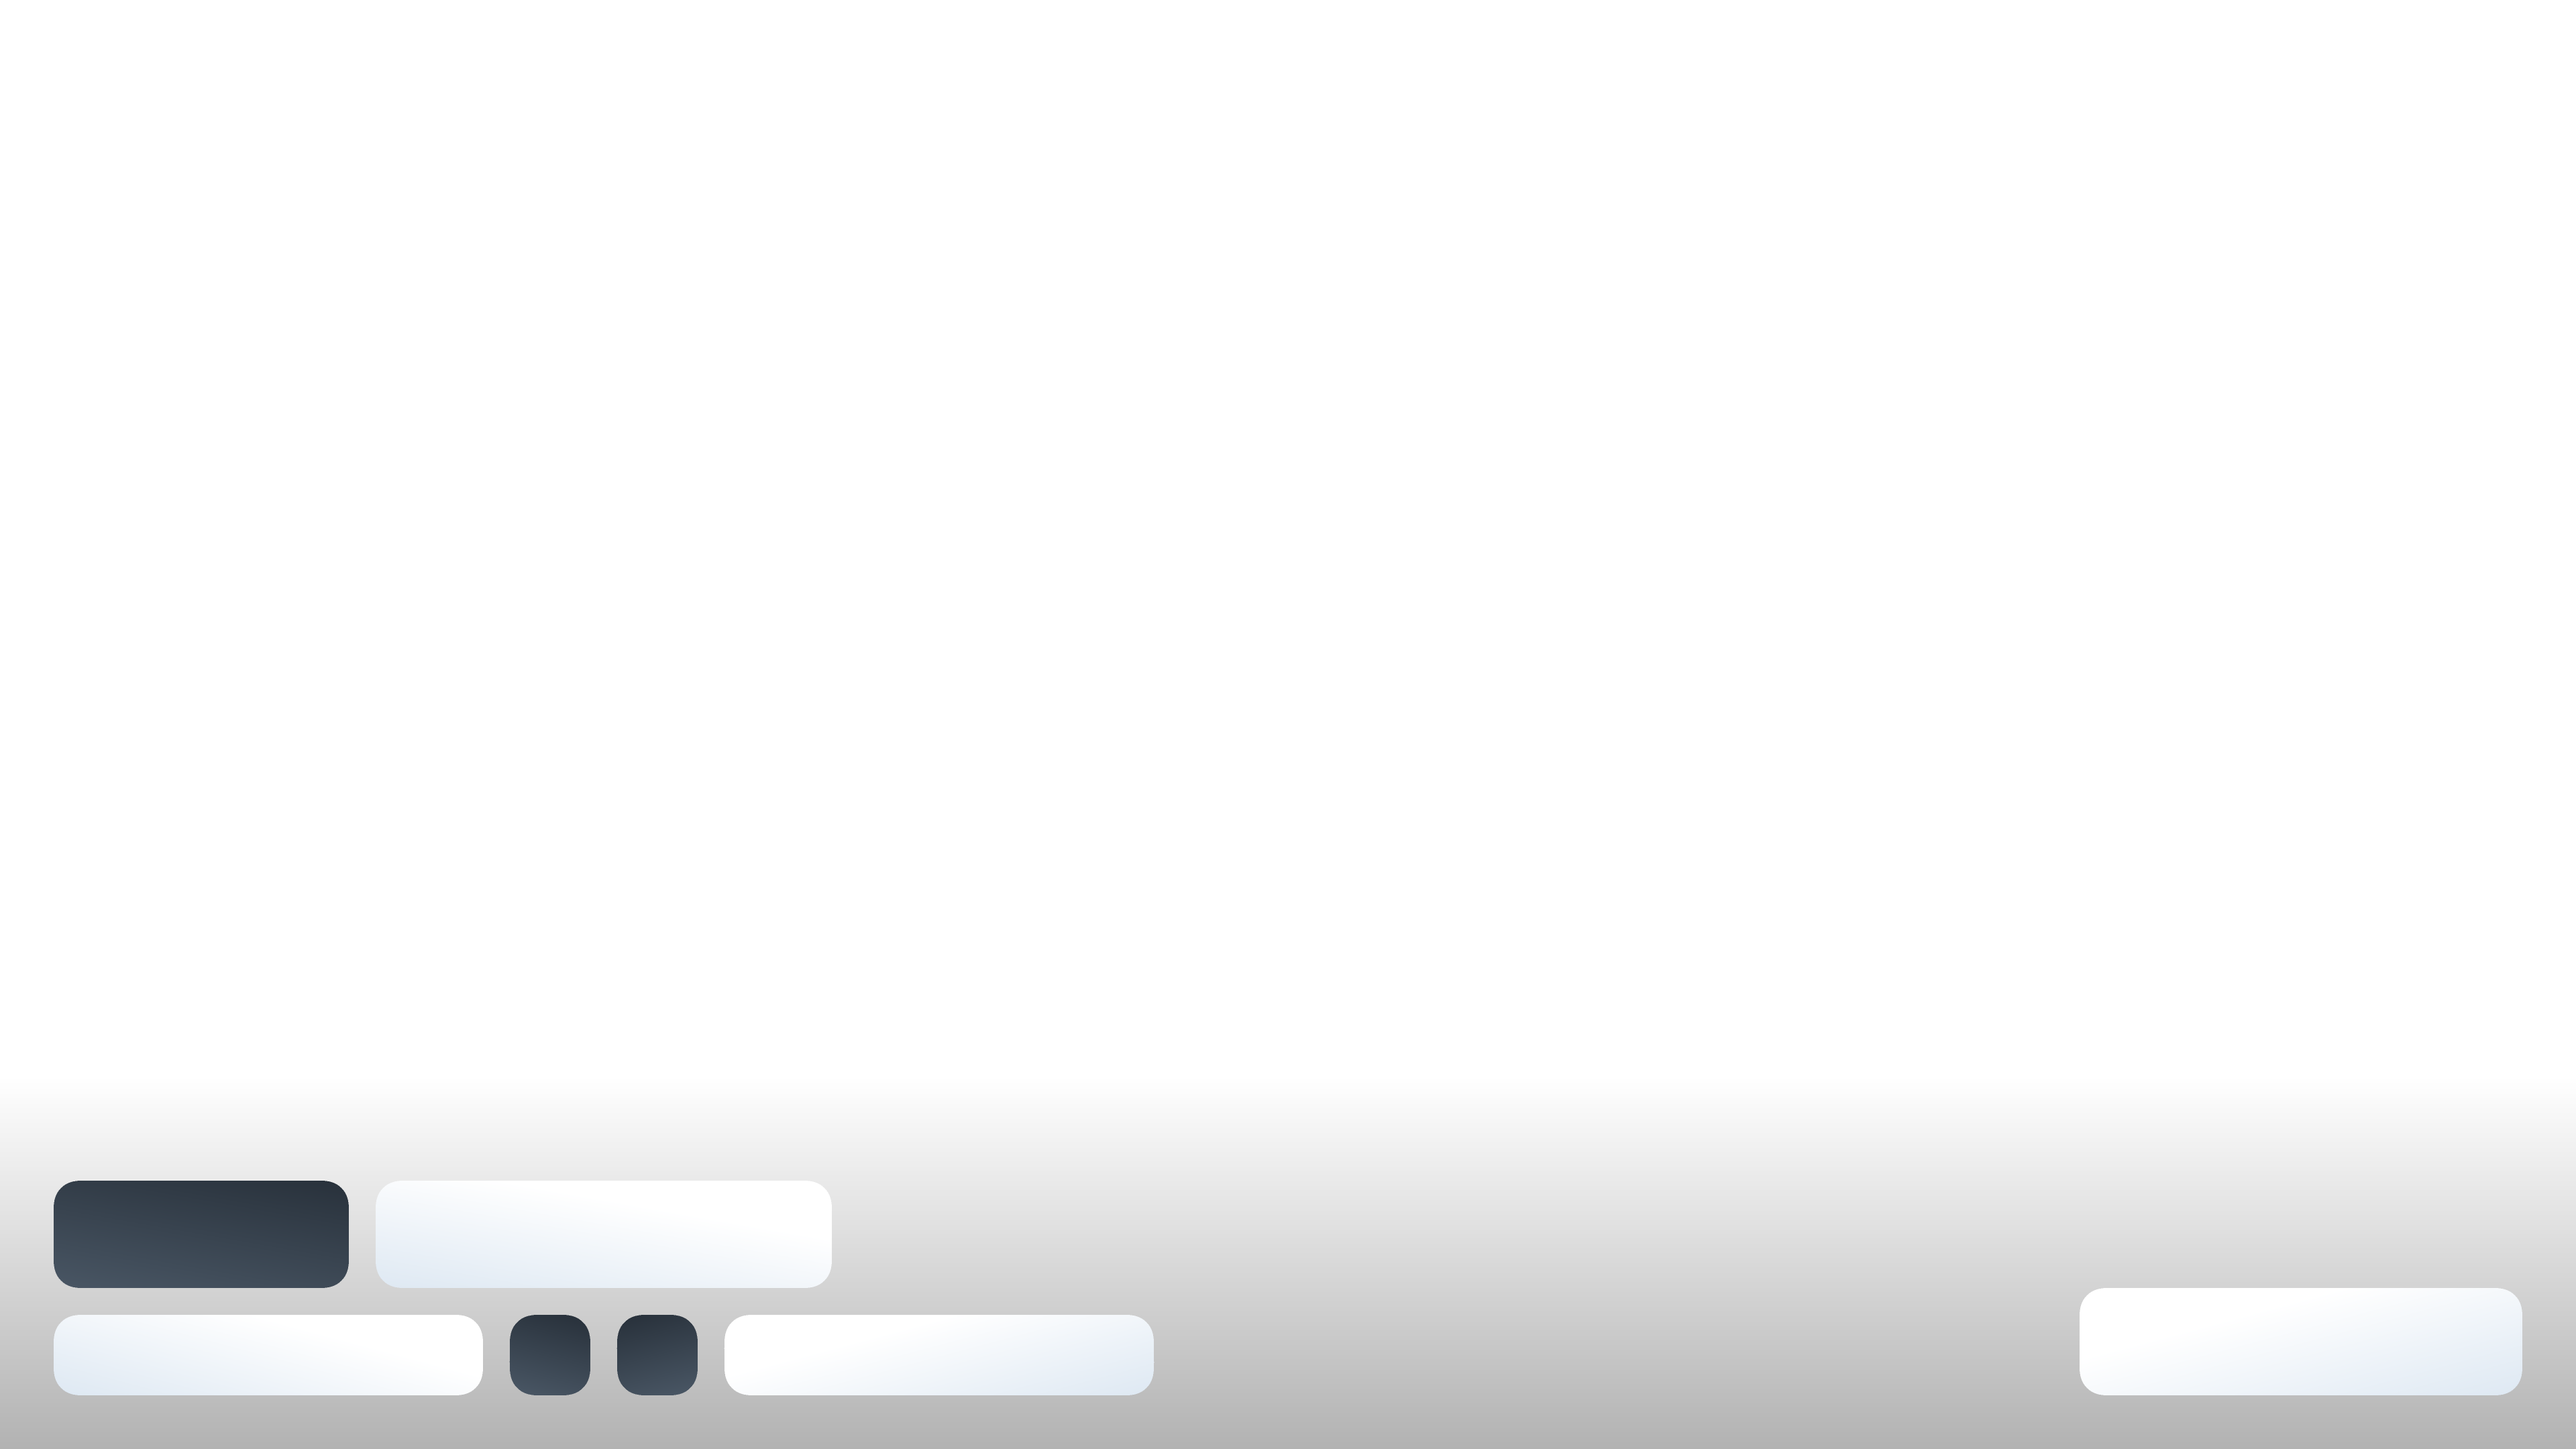
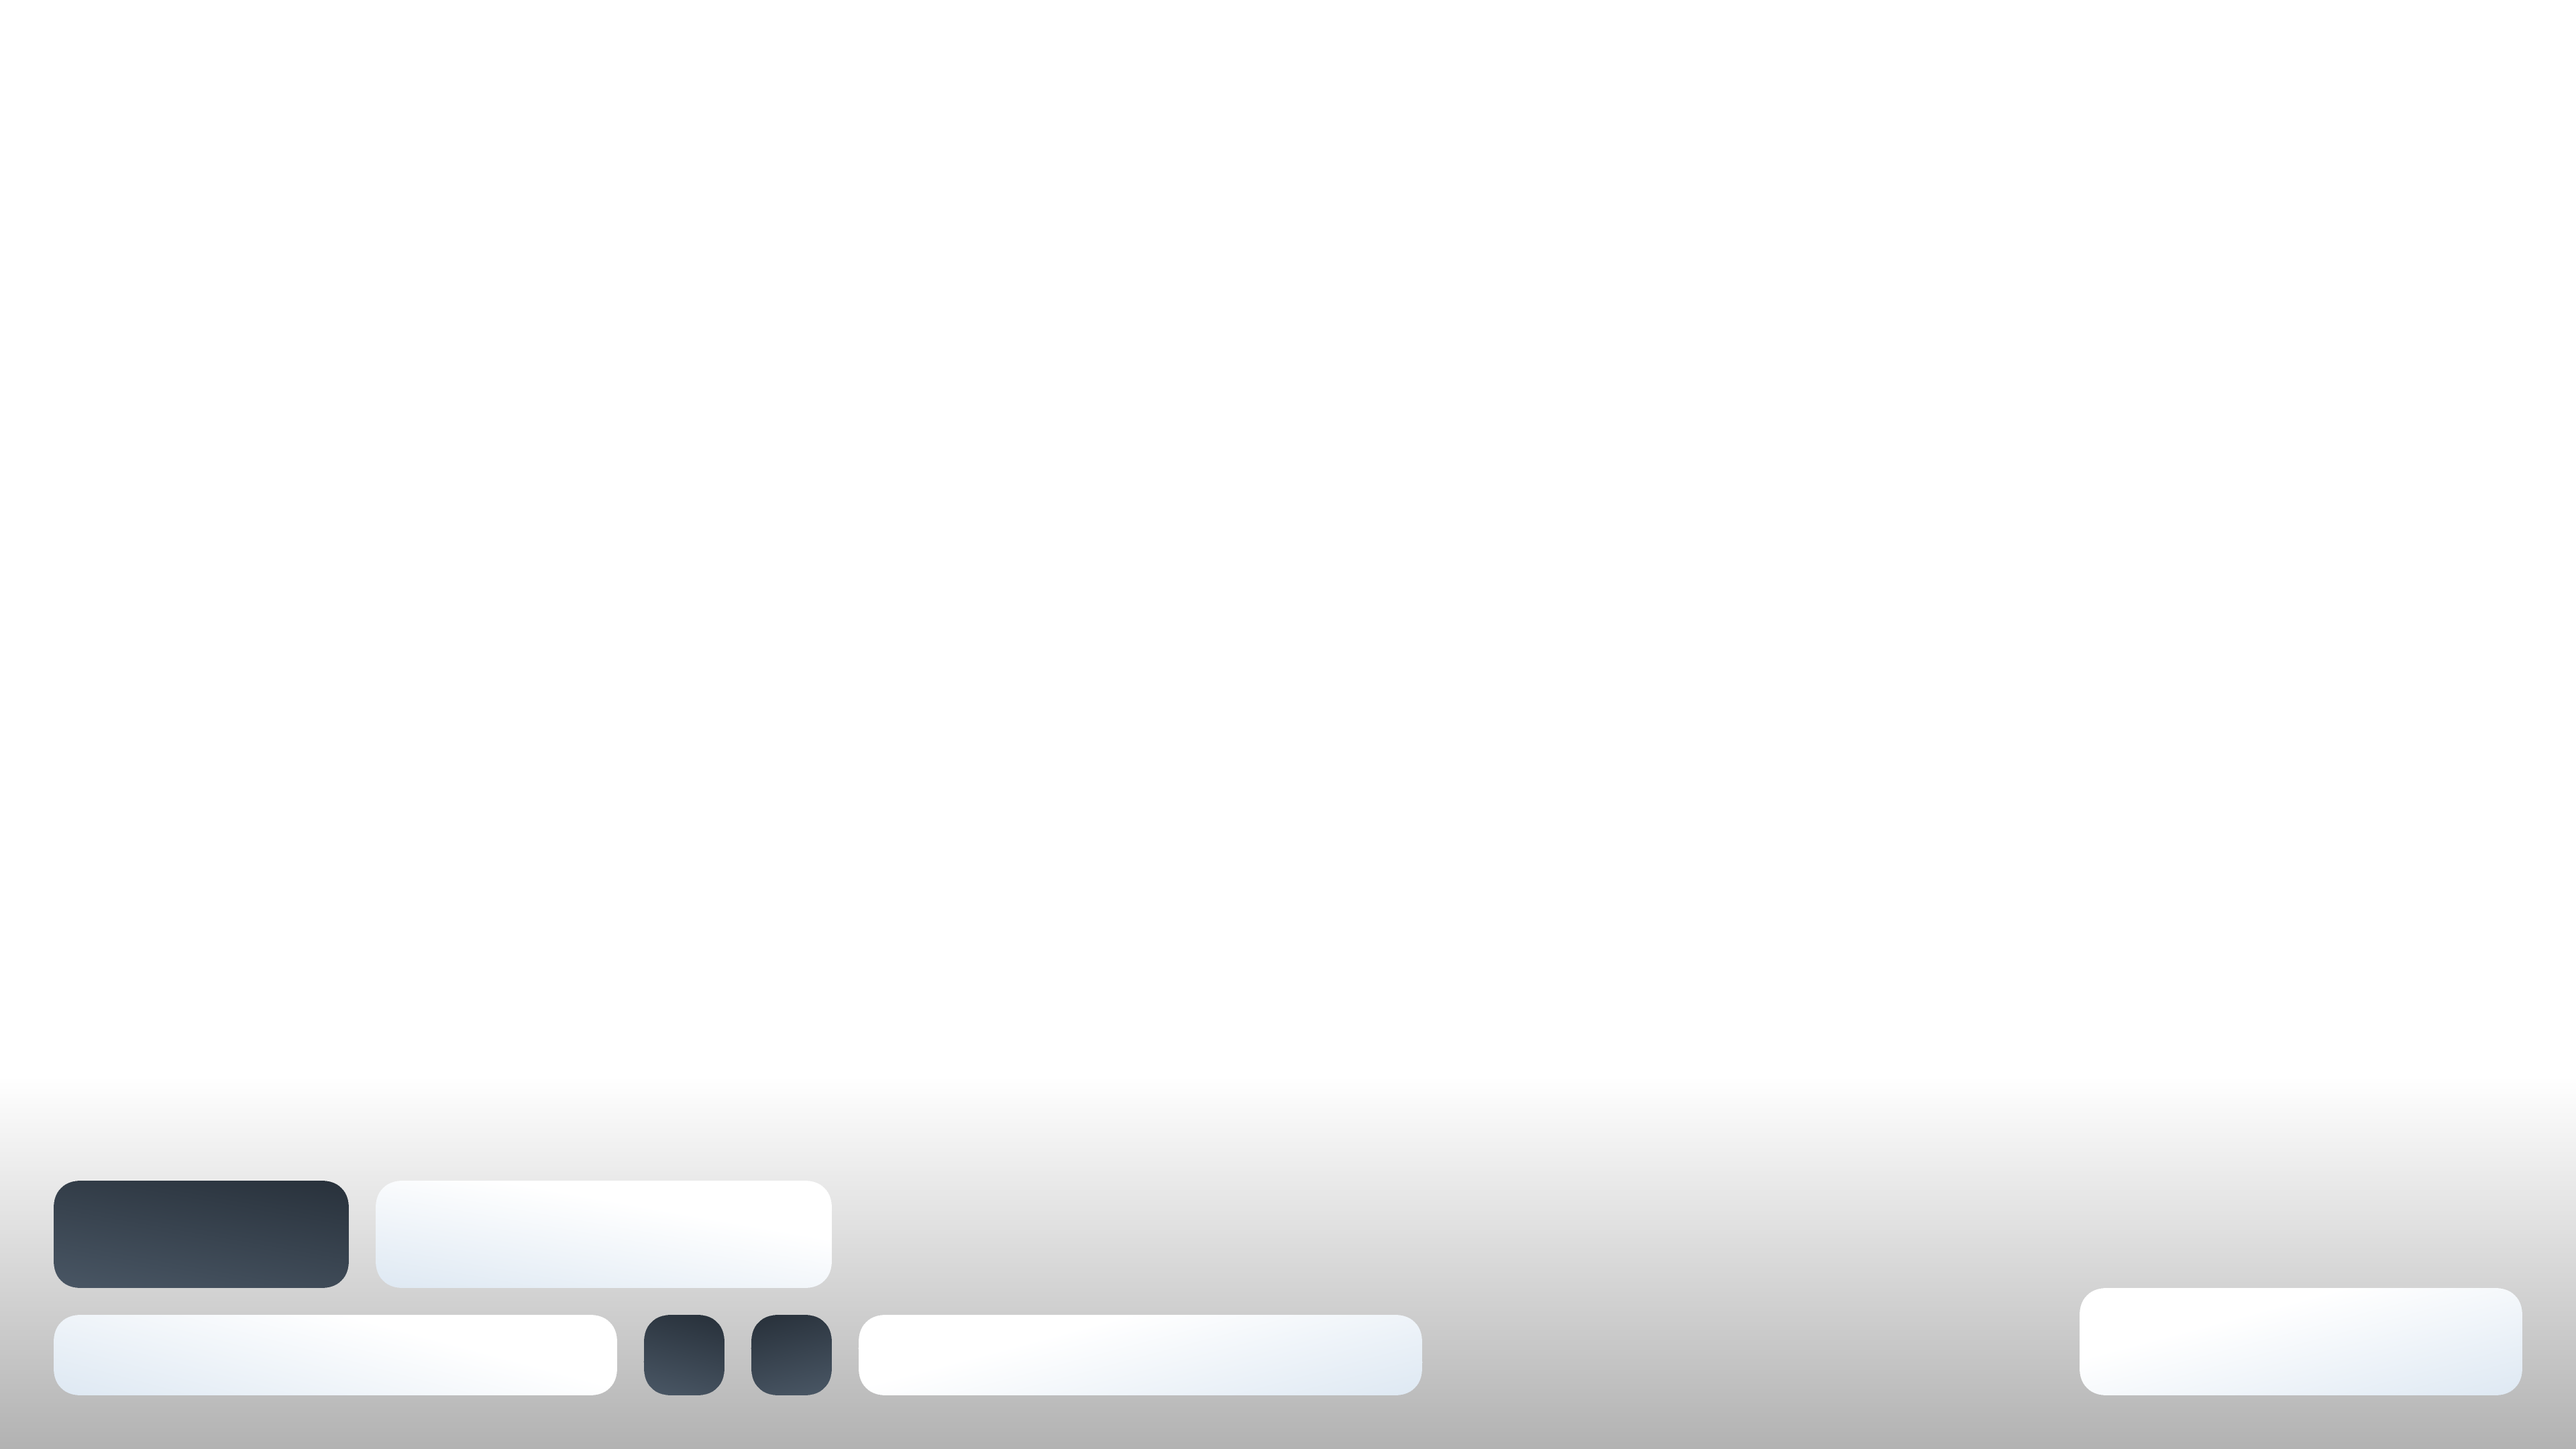
fix #80, fix #77

Changed region(s): [[0.1875, 0.8995, 0.3438, 0.9616], [0.4375, 0.8995, 0.5625, 0.9616]]

diff --git a/components/obs/next/MatchIntervalInfo.tsx b/components/obs/next/MatchIntervalInfo.tsx
@@ -61,8 +61,15 @@ export const MatchInterval: FC<{
           <p className={styles.bo}>{matchIntervalInfo.matchType}</p>
         </Transition>
       </div>
-      <Transition keyName={matchIntervalInfo.p1.playerName}>
-        <p className={styles.playerLeft}>{matchIntervalInfo.p1.playerName}</p>
+      <Transition
+        keyName={`${matchIntervalInfo.p1.team}-${matchIntervalInfo.p1.playerName}`}
+      >
+        <div className={styles.playerLeft}>
+          <span className={styles.playerTeam}>{matchIntervalInfo.p1.team}</span>
+          <span className={styles.playerName}>
+            {matchIntervalInfo.p1.playerName}
+          </span>
+        </div>
       </Transition>
       <Transition
         keyName={`${matchIntervalInfo.p1.playerName}-${matchIntervalInfo.p1.score}`}
@@ -74,8 +81,15 @@ export const MatchInterval: FC<{
       >
         <p className={styles.scoreRight}>{matchIntervalInfo.p2.score}</p>
       </Transition>
-      <Transition keyName={matchIntervalInfo.p2.playerName}>
-        <p className={styles.playerRight}>{matchIntervalInfo.p2.playerName}</p>
+      <Transition
+        keyName={`${matchIntervalInfo.p2.team}-${matchIntervalInfo.p2.playerName}`}
+      >
+        <div className={styles.playerRight}>
+          <span className={styles.playerTeam}>{matchIntervalInfo.p2.team}</span>
+          <span className={styles.playerName}>
+            {matchIntervalInfo.p2.playerName}
+          </span>
+        </div>
       </Transition>
       <p className={styles.localsetting}>
         Local Time

diff --git a/components/obs/next/normal.scss b/components/obs/next/normal.scss
@@ -26,6 +26,16 @@ $next_black: "Satoshi", "Noto Sans JP", sans-serif;
   }
 
   // チーム名及びプレイヤー名の設定
+  @mixin next_teamText {
+    color: var(--sub-color);
+    text-align: center;
+    font-size: 24px;
+    line-height: 24px;
+    letter-spacing: 1px;
+    @include next_mediumWeight;
+  }
+
+  // チーム名及びプレイヤー名の設定
   @mixin next_nameText {
     color: var(--sub-color);
     text-align: center;
@@ -37,10 +47,8 @@ $next_black: "Satoshi", "Noto Sans JP", sans-serif;
 
   // プレイヤー名の位置指定
   @mixin player {
-    @include next_nameText;
-
     margin: 0;
-    width: 320px;
+    width: 420px;
     height: 60px;
     position: fixed;
     text-align: center;
@@ -107,13 +115,13 @@ $next_black: "Satoshi", "Noto Sans JP", sans-serif;
   .scoreLeft {
     @include score;
 
-    left: 380px;
+    left: 480px;
   }
 
   .scoreRight {
     @include score;
 
-    left: 460px;
+    left: 560px;
   }
 
   .playerLeft {
@@ -125,7 +133,17 @@ $next_black: "Satoshi", "Noto Sans JP", sans-serif;
   .playerRight {
     @include player;
 
-    left: 540px;
+    left: 640px;
+  }
+
+  .playerTeam {
+    @include next_teamText;
+  }
+
+  .playerName {
+    @include next_nameText;
+
+    margin-left: 1rem;
   }
 
   .localsetting {

diff --git a/components/obs/next/simple.scss b/components/obs/next/simple.scss
@@ -119,6 +119,15 @@ $next_black: "Satoshi", "Noto Sans JP", sans-serif;
   }
 
   // チーム名及びプレイヤー名の設定
+  @mixin nextsp_teamText {
+    color: var(--sub-color);
+    font-size: 30px;
+    line-height: 30px;
+    letter-spacing: 1px;
+    @include nextsp_boldWeight;
+  }
+
+  // チーム名及びプレイヤー名の設定
   @mixin nextsp_nameText {
     color: var(--sub-color);
     font-size: 34px;
@@ -150,6 +159,16 @@ $next_black: "Satoshi", "Noto Sans JP", sans-serif;
 
     left: 645px;
     text-align: left;
+  }
+
+  .playerTeam {
+    @include nextsp_teamText;
+  }
+
+  .playerName {
+    @include nextsp_nameText;
+
+    margin-left: 1rem;
   }
 
   .localsetting {

diff --git a/components/parts/Transition.tsx b/components/parts/Transition.tsx
@@ -11,7 +11,6 @@ export const Transition: FC<{ children: ReactNode; keyName: string }> = ({
         <CSSTransition
           key={keyName}
           addEndListener={(node: HTMLElement, done: () => void) => {
-            console.log(node)
             node.addEventListener("transitionend", done, false)
           }}
           classNames="fade"
